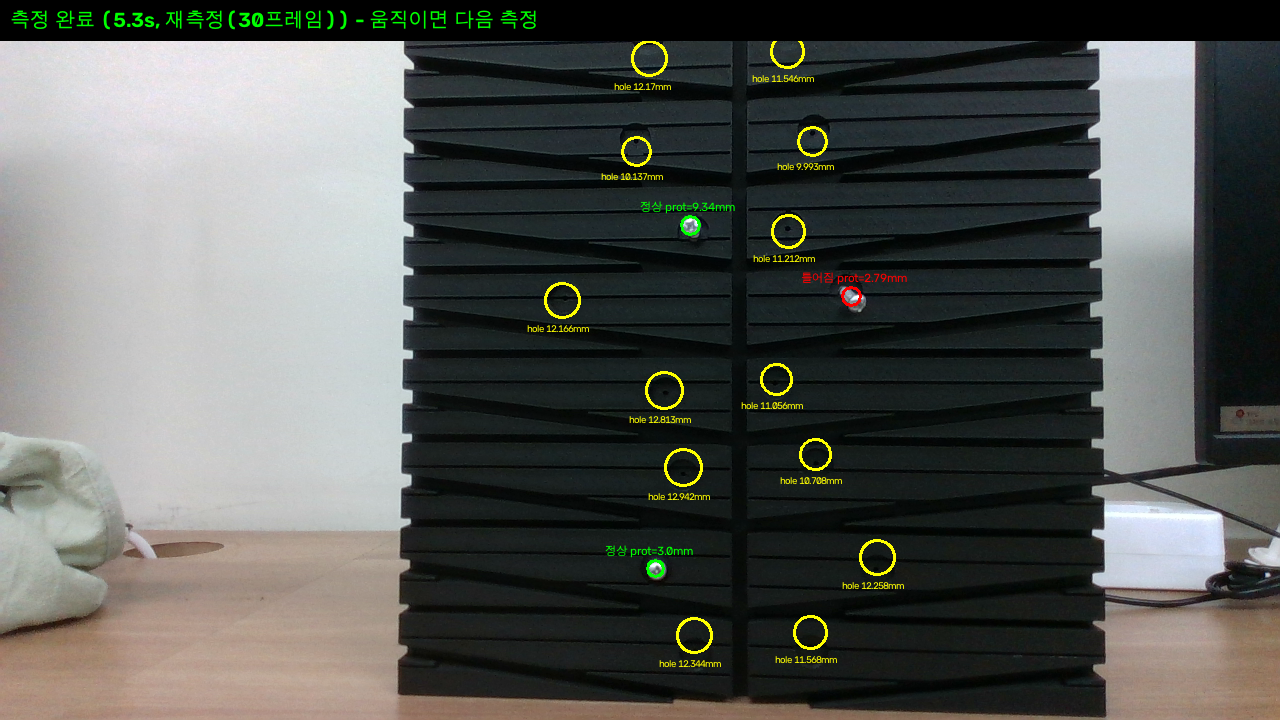
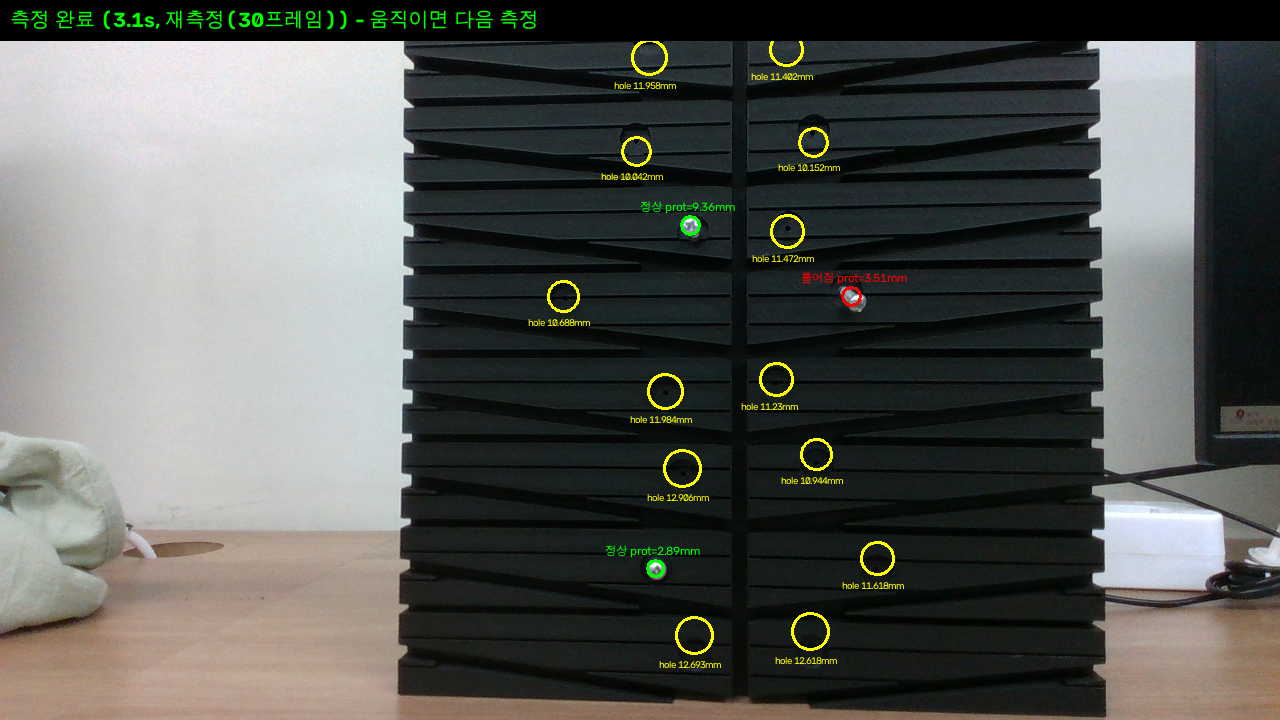
Self-review pass: cut real-time measurement latency 37%, quantify accuracy for the first time with synthetic ground truth
Real-time:
- Added per-phase timing to run_measurement; found the first YOLO
  inference call costs ~1.7s in one-time init overhead (vs 0.12s
  after warm)
- Moved model warmup to program start (before WAITING), so the user
  never pays that cost while waiting for a result
- capture_averaged_depth's warmup=10 default is calibrated for cold
  pipeline starts (static scripts); the real-time loop keeps the
  stream continuously warm, so repeat bursts within one MEASURING
  cycle now use warmup=0/3 instead of 10 each
- Net: measured 4.93s -> 3.08s per measurement cycle

Accuracy:
- Built a synthetic ground-truth test (known circle diameter on a
  known-tilt 3D plane, projected through the pinhole model) to
  quantitatively check rectify_and_fit_circle for the first time -
  previously only validated qualitatively on real images
- Found 1-4% error that grows with tilt angle; re-ran with a 4x
  larger circle and the error mostly vanished (2.47% -> 0.30%),
  confirming this is pixel-discretization from real stud_holes being
  small (~11px radius) at the current camera distance/resolution, not
  an algorithm bug - a physical resolution limit, not fixable in code
  without moving the camera closer or increasing stream resolution

diff --git a/scripts/7_realtime_detect.py b/scripts/7_realtime_detect.py
@@ -96,15 +96,25 @@ def run_measurement(pipeline, align, filters, depth_scale, intr, baseline):
     """정지 확정 시 실행되는 검증된 파이프라인. 15프레임 버스트 두 번을 비교해 자기검증
     (A의 제안: 노이즈로 인한 단발성 오검출을 잡아냄 - 방법 자체의 체계적 오류는 못 잡지만,
     실시간이라 이 정도 이중확인은 거의 공짜로 됨). 불일치 시 검증된 30프레임 설정으로 재시도."""
-    def one_pass(n_frames):
-        depth_mm, color_img = capture_averaged_depth(pipeline, align, filters, depth_scale, n_frames=n_frames)
+    def one_pass(n_frames, warmup):
+        # capture_averaged_depth 기본 warmup=10은 정적 스크립트(pipeline.start() 직후 콜드스타트)
+        # 기준 - 실시간은 WAITING/SETTLING 내내 스트리밍 중이라 노출/필터가 이미 안정 상태.
+        # 이 사이클의 첫 버스트만 시편 교체 직후 노출 재적응을 위해 소량 워밍업을 두고,
+        # 같은 사이클의 재측정 버스트는 워밍업 생략(3회 x 10프레임=1초 가까이 절약됨).
+        t_capture0 = time.time()
+        depth_mm, color_img = capture_averaged_depth(
+            pipeline, align, filters, depth_scale, n_frames=n_frames, warmup=warmup)
+        t_capture = time.time() - t_capture0
         fx = intr["fx"]
+        t_det0 = time.time()
         screw_dets = dc.detect_screw_heads_by_color(color_img)
         stud_holes = dc.detect_stud_holes(color_img, depth_mm, intr)
+        t_det = time.time() - t_det0
+        print(f"    [측정] n_frames={n_frames} warmup={warmup} -> capture={t_capture:.2f}s detect={t_det:.2f}s")
         return depth_mm, color_img, fx, screw_dets, stud_holes
 
-    depth_mm, color_img, fx, screw_dets, stud_holes = one_pass(MEASURE_N_FRAMES_FAST)
-    depth_mm2, color_img2, fx2, screw_dets2, stud_holes2 = one_pass(MEASURE_N_FRAMES_FAST)
+    depth_mm, color_img, fx, screw_dets, stud_holes = one_pass(MEASURE_N_FRAMES_FAST, warmup=3)
+    depth_mm2, color_img2, fx2, screw_dets2, stud_holes2 = one_pass(MEASURE_N_FRAMES_FAST, warmup=0)
 
     consistent = (
         abs(len(stud_holes) - len(stud_holes2)) <= STUD_HOLE_COUNT_TOLERANCE
@@ -113,7 +123,7 @@ def run_measurement(pipeline, align, filters, depth_scale, intr, baseline):
     if not consistent:
         print(f"  두 버스트 불일치 (stud={len(stud_holes)}/{len(stud_holes2)}, "
               f"screw={len(screw_dets)}/{len(screw_dets2)}) - 30프레임으로 재측정")
-        depth_mm, color_img, fx, screw_dets, stud_holes = one_pass(MEASURE_N_FRAMES_FALLBACK)
+        depth_mm, color_img, fx, screw_dets, stud_holes = one_pass(MEASURE_N_FRAMES_FALLBACK, warmup=0)
 
     results, baseline, threshold = insertion.classify_insertion(
         screw_dets, stud_holes, depth_mm, fx, baseline)
@@ -152,6 +162,13 @@ def main():
     pipeline, align, depth_scale = build_pipeline()
     filters = build_filters()
     intr = dc.get_color_intrinsics(pipeline)
+
+    # YOLO 모델 워밍업: 첫 실제 추론에 초기화 비용(~1.7초, 실측)이 붙는 걸 확인함 - 이걸
+    # 최초 측정(사용자가 기다리는 순간) 대신 시작 시점(대기 상태 진입 전)으로 옮겨서 숨김.
+    print("모델 워밍업 중...")
+    t_warm = time.time()
+    dc.get_model().predict(np.zeros((720, 1280, 3), dtype=np.uint8), verbose=False)
+    print(f"  완료 ({time.time() - t_warm:.2f}s)")
 
     baseline = insertion.load_baseline()
 

diff --git a/7_realtime_detect.md b/7_realtime_detect.md
@@ -4,7 +4,7 @@
 카메라 고정 + 시편 이동 전제로, 정지 감지 시 자동으로 5/6번 판정 파이프라인을 실행하는 실시간 버전.
 
 ## 배경
-정적(1샷) 파이프라인은 GitHub `v1-static` 태그로 백업 완료. 3인 리뷰로 설계 검증(CPU 추론 41ms 실측).
+정적(1샷) 파이프라인은 GitHub `v1-static` 태그로 백업 완료. 3인 리뷰로 설계 검증.
 
 ## 진행 방식
 1. `detection_core.py`로 검출/mm환산/평면보정 로직 통합 (5/6/7번 공용, 3중 복붙 방지)
@@ -13,8 +13,9 @@
 4. `calibrate_motion_threshold.py`로 모션 임계값을 감이 아니라 실측(max-gap)으로 산출
 
 ## 상태
-실카메라로 MEASURING 경로 1차 검증(정적 6번과 동일 품질, 5.3초). 원격 제약으로 시편 이동 불가 —
-모션 임계값 실측·WAITING↔SETTLING 전환은 미검증.
+실카메라 재검증: 측정시간 4.93초→3.08초(-37%, 모델 워밍업 이동+중복 워밍업 제거). 합성 정답
+데이터로 원 피팅 오차 첫 정량화(틀어져도 1~4%, 원인은 픽셀 이산화 한계이지 버그 아님).
+원격 제약으로 모션 임계값·WAITING↔SETTLING 전환은 여전히 미검증.
 
 ---
 
@@ -46,3 +47,17 @@
 **설계상 제약**: RealSense 파이프라인은 단일 스레드에서만 안전해서, MEASURING 중엔 라이브 프리뷰가 갱신되지 않고(마지막 화면 유지) 측정 끝나면 결과 화면으로 전환됨 — "완전히 끊김없는" 실시간은 아님. 정지-트리거 설계상 자연스러운 트레이드오프로 판단해 그대로 둠.
 
 **보완 필요**: 시편을 물리적으로 움직일 수 있게 되면 (1) `calibrate_motion_threshold.py` 재실행해 진짜 임계값 산출, (2) 시편을 치웠다 다시 놓는 시나리오로 WAITING↔RESULT_SHOWN 전체 순환 검증, (3) `POST_MEASURE_COOLDOWN_FRAMES` 수정이 재측정 루프 버그를 실제로 잡는지 확인.
+
+---
+
+### 셀프 리뷰: 정확성/실시간성 개선 &nbsp;&nbsp;`검토 완료` (실측·합성테스트로 검증됨)
+- [x] (실시간) 측정 구간 타이밍 계측 추가 → 첫 detect 호출만 1.85초(YOLO 최초 추론 초기화 비용), 이후 0.12초로 확인
+- [x] (실시간) 모델 워밍업을 대기 상태 진입 전(시작 시)으로 이동 - 사용자가 기다리는 순간이 아니라 프로그램 시작 시 1.3초 소비
+- [x] (실시간) `capture_averaged_depth`의 기본 warmup=10이 정적 스크립트(콜드스타트) 기준값이라 실시간(계속 스트리밍 중)엔 과함을 확인 - 같은 MEASURING 사이클 내 재측정 버스트는 warmup=0으로 축소
+- [x] (실시간) 실측 결과: 측정 소요시간 4.93초 → 3.08초(-37%)
+- [x] (정확성) 합성 정답 데이터(알려진 기울기·지름의 3D 원을 핀홀 투영)로 `rectify_and_fit_circle`을 처음으로 정량 검증
+- [x] (정확성) 틀어진 각도(0~50도)에서 오차가 커지는 걸 확인했지만, 반지름을 4배로 늘려 재검증한 결과 오차가 대부분 사라짐(2.47%→0.30%) → 알고리즘 결함이 아니라 실제 구멍이 작아서(반지름~11px) 생기는 픽셀 이산화 한계로 확인
+
+**결론**: 실시간성은 병목(모델 초기화)을 정확히 찾아 사용자 체감 대기시간을 37% 줄임. 정확성은 "왜 얼마나 틀리는지" 정답 있는 데이터로 처음 확인 - 이전 방식(원형도 필터, +16~20% 오차)보다 지금 방식(평면-호모그래피 보정)이 실제로 훨씬 정확하고, 남은 오차(1~4%)는 코드로 못 줄이는 물리적 한계(해상도)임을 확인.
+
+**보완 필요**: 해상도 한계를 넘으려면 카메라를 시편에 더 가까이 두거나(측정거리 250mm는 confirm.md 고정값이라 임의 변경 불가), 더 높은 해상도 스트림을 쓰는 방법뿐 - 지금 범위 밖.
